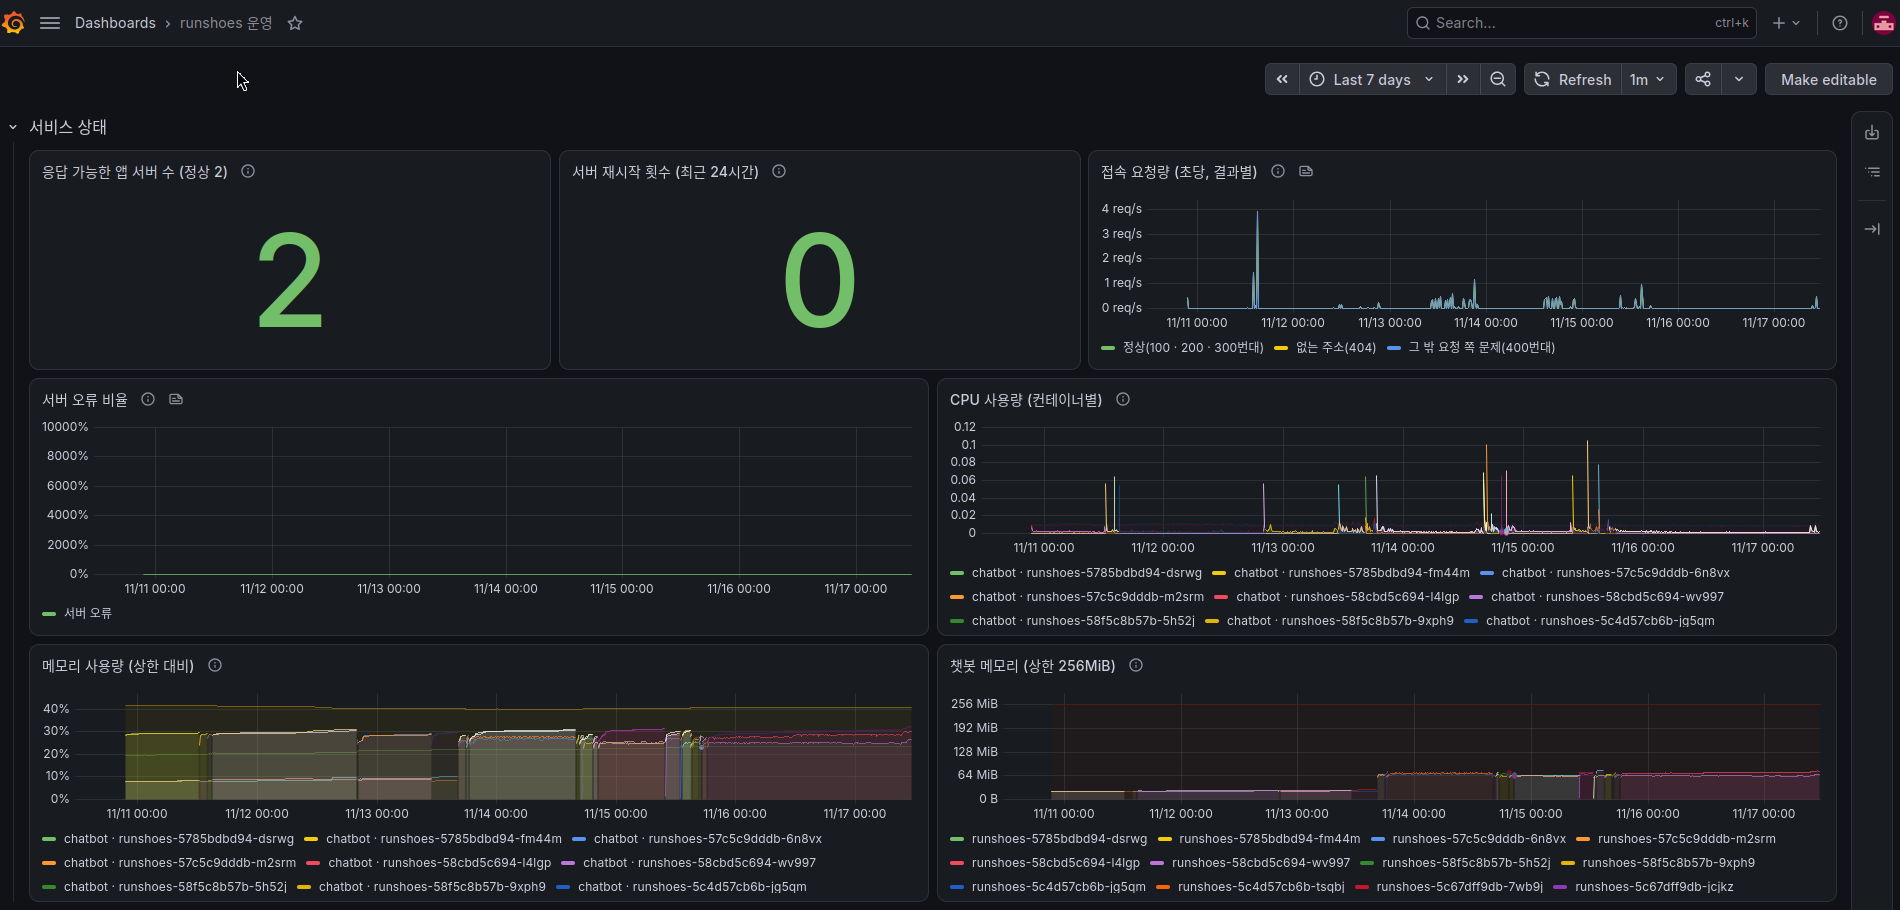
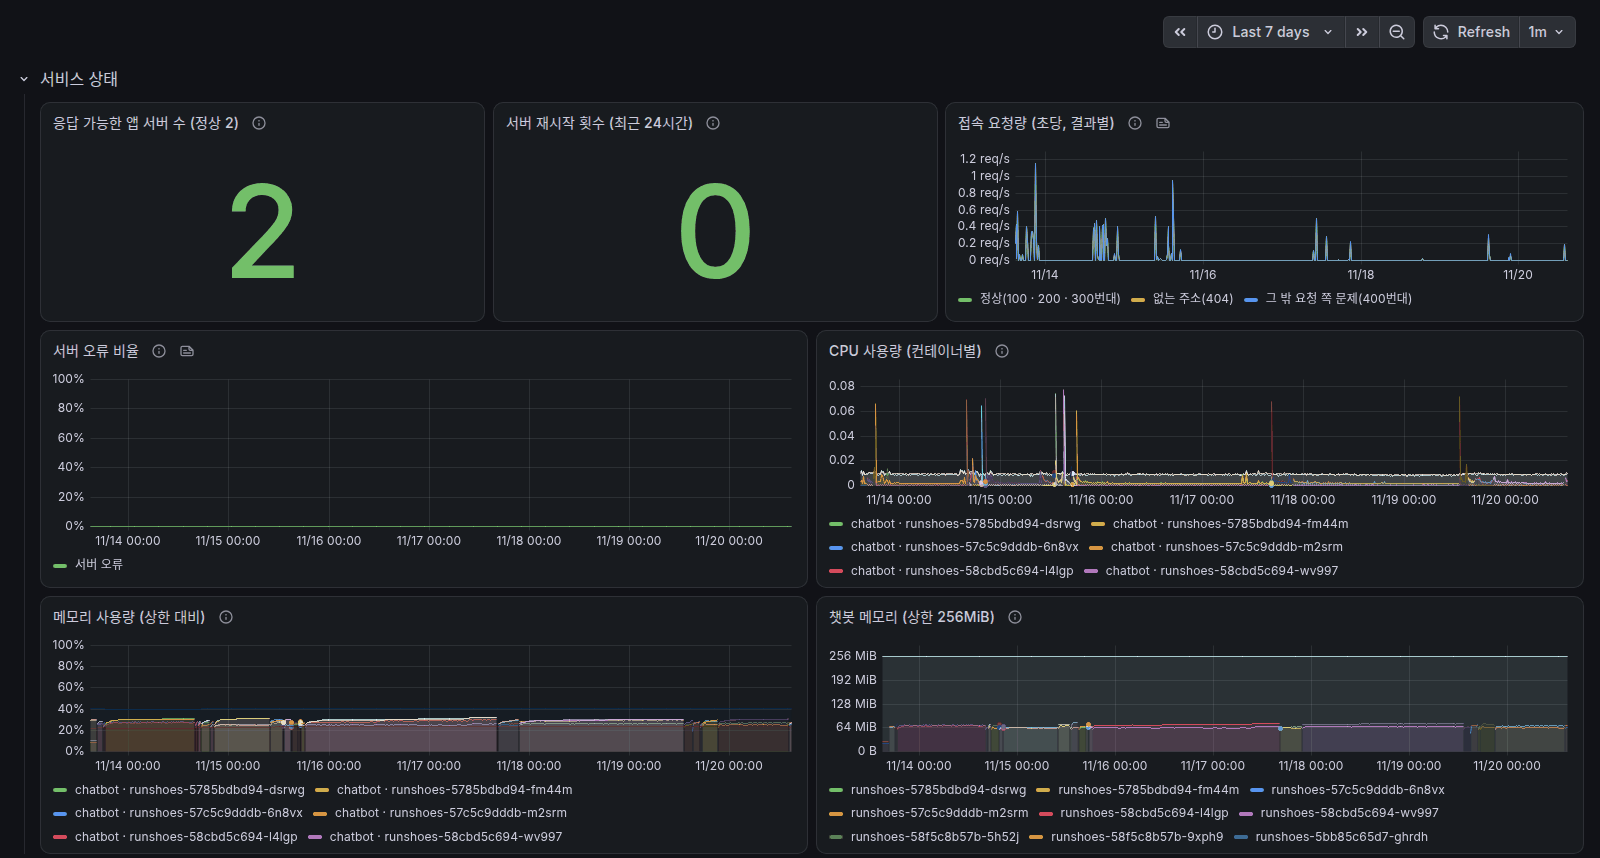
docs: 운영 도구 화면 사진을 원고와 포트폴리오에 넣음
직접 세운 클러스터를 보여 줄 사진이 다섯 장뿐이어서 ArgoCD,
Jenkins, Harbor, Grafana 화면과 노드, 배치, 인증서 그림을 더했다.
화면은 사설망에서 헤드리스 브라우저로 찍었고 주소창이 나오지 않는다.
커밋 작성자 메일, 접속 주소가 든 로그 칸처럼 보이면 안 되는 칸은
흐리지 않고 화면 밖으로 잘라 냈다. 가린 자국도 보여 준 것이라는
사용자 말을 따랐다. 노드, 배치, 인증서는 명령 출력을 옮겨 그린
그림이라 설명에 밝혔다. 옛 ArgoCD 사진은 새 두 장으로 바꾸고
지웠고, 200KB를 넘던 옛 사진 둘은 줄이거나 다시 찍었다.

diff --git a/portfolio/04_tunnel.md b/portfolio/04_tunnel.md
@@ -36,7 +36,10 @@ cloudflared를 파드로 띄운 까닭은 운영을 쿠버네티스에 맡기기
 
 터널이 ingress-nginx 하나만 가리키게 한 까닭은 앱이 늘 때마다 터널을 고치지 않으려는 것입니다. 새 앱은 Ingress 규칙만 더하면 됩니다. 다만 이 터널은 설정 파일 방식이라 공개 주소를 더할 때는 설정에 주소 한 줄과 Cloudflare 쪽 DNS 기록도 같이 더합니다 [docs:history/build_log/03_cloudflare_tunnel.md:143-153].
 
-터널이 깨지면 바깥 길 전체가 끊기므로, cloudflared는 저장소 변경이 자동으로 반영되지 않는 유일한 앱입니다. 다른 앱은 커밋이 곧 배포로 이어지지만, 이 앱은 사람이 반영을 누르고 교체 과정을 지켜봅니다. 잘못된 커밋 하나가 사람 손을 거치지 않고 바깥 길 전체를 끊게 두지 않으려는 것입니다 [code:apps/cloudflared/app.yaml:4-8] [docs:history/cluster_state_20261116.md:56-61]. 터널이 끊겼을 때를 위한 길도 남겨 두었습니다. 서버 호스트에서는 터널을 거치지 않고 ingress-nginx의 사설망 고정 주소(VIP)로 운영 도구 화면을 열 수 있고, 관리 노드에 들어가 명령으로 되돌릴 수 있습니다 [code:apps/cloudflared/README.md:24-25].
+터널이 깨지면 바깥 길 전체가 끊기므로, cloudflared는 저장소 변경이 자동으로 반영되지 않는 유일한 앱입니다. 다른 앱은 커밋이 곧 배포로 이어지지만, 이 앱은 사람이 반영을 누르고 교체 과정을 지켜봅니다. 잘못된 커밋 하나가 사람 손을 거치지 않고 바깥 길 전체를 끊게 두지 않으려는 것입니다 [code:apps/cloudflared/app.yaml:4-8] [docs:history/cluster_state_20261116.md:56-61].
+
+![ArgoCD의 cloudflared 앱 나무. 앱 아래 설정 파일과 Deployment가 있고, Deployment 아래 지금 쓰는 판의 파드 두 벌이 떠 있습니다. 옛 판 둘은 파드 없이 남아 있습니다](img/04_argocd_cloudflared.png)
+ 터널이 끊겼을 때를 위한 길도 남겨 두었습니다. 서버 호스트에서는 터널을 거치지 않고 ingress-nginx의 사설망 고정 주소(VIP)로 운영 도구 화면을 열 수 있고, 관리 노드에 들어가 명령으로 되돌릴 수 있습니다 [code:apps/cloudflared/README.md:24-25].
 
 ## 치른 값
 

diff --git a/notion/12_monitoring/03_dashboards.md b/notion/12_monitoring/03_dashboards.md
@@ -41,6 +41,10 @@ DB 계정의 비밀번호는 저장소에 없다. 사람이 쿠버네티스 Secr
 
 대시보드를 보는 사람은 개발자가 아닐 수 있다. 그래서 칸 제목은 무엇을 세는지 바로 알 수 있는 말로 쓰고, 마우스를 올리면 나오는 설명에 무엇이 섞였는지, 높거나 낮으면 무슨 뜻인지, 언제부터 있는 값인지를 쉬운 말로 적는다. DB 칸 이름이나 도구 이름은 설명 끝의 「출처」 한 줄에만 둔다. [code:apps/monitoring/grafana/dashboards/gen_petmint.py:62-63] [code:apps/monitoring/grafana/dashboards/gen_runshoes.py:10-11] Grafana는 추세를 보는 곳이고, 한 건 한 건을 들여다보고 손대는 일은 각 서비스의 관리자 화면이 맡는다. [code:apps/monitoring/grafana/dashboards/gen_runshoes.py:7-8]
 
+![「petmint 운영」 대시보드를 기본 범위 최근 30일로 본 화면이다. 위에서부터 서비스 상태와 접속량, 질문량, 답변 품질과 속도, AI 서버(GPU) 묶음이 있다. 그 아래 서버 기록 칸이 있는 줄은 접속 주소가 나와 넣지 않았다.](../../portfolio/img/08_grafana_petmint.png)
+
+![「runshoes 운영」 대시보드를 최근 30일로 본 화면이다. 위에서부터 서비스 상태, API, 챗봇 묶음이 있다. 그 아래 AI 서버(GPU), 사이트 활동, 리뷰 요약 배치, 서버 기록 묶음은 넣지 않았다. AI 서버 묶음에는 GPU를 나눠 쓰는 펫퍼민트의 모델 이름이 나온다.](../../portfolio/img/08_grafana_runshoes.png)
+
 ## 들어가는 문
 
 Grafana는 바깥 주소로 열려 있고, 자체 로그인과 Cloudflare Access 두 겹으로 막는다. [code:apps/monitoring/ingress.yaml:7] 로그인하지 않은 사람에게는 아무것도 보여 주지 않으며 [code:apps/monitoring/grafana/deployment.yaml:41-42], 업데이트 확인이나 사용 통계처럼 바깥으로 나가는 호출은 껐다. [code:apps/monitoring/grafana/deployment.yaml:43-49] 관리자 계정은 사람이 Secret으로 만들어 넣는다. [code:apps/monitoring/grafana/deployment.yaml:28-31]

diff --git a/portfolio/01_kubeadm.md b/portfolio/01_kubeadm.md
@@ -28,6 +28,10 @@ w4-k8s  워커            platform  (모니터링)
 
 노드 이름과 역할 라벨은 실제 클러스터에서 확인한 값입니다 [docs:history/cluster_state_20261116.md:9-15]. 역할 라벨(노드에 붙여 두는 꼬리표)에 따라 무엇이 어디에 뜨는지가 정해집니다 [code:cluster/label-nodes.sh:6-8].
 
+![노드 목록. 화면을 찍은 것이 아니라 노드 목록 명령의 출력을 옮겨 그린 그림입니다. 다섯 대 모두 Ready이고 판이 같으며, 맨 오른쪽 칸이 역할 라벨입니다. 노드 주소가 나오는 칸은 넣지 않았습니다](img/01_nodes.png)
+
+![노드마다 떠 있는 것. 화면을 찍은 것이 아니라 파드 목록 명령의 출력을 노드별로 옮겨 그린 그림입니다. w1과 w2에 두 서비스의 앱과 데이터베이스, w3에 ArgoCD, Harbor, Jenkins, w4에 모니터링이 있습니다. 모든 노드에 하나씩 도는 것은 아래 한 줄로 모았고, 파드 주소는 넣지 않았습니다](img/01_placement.png)
+
 ## 까닭
 
 까닭은 셋으로 기록되어 있습니다. 첫째, 실제 운영 클러스터는 control-plane과 워커가 나뉘어 있고, 일꾼 노드 하나가 죽어도 다른 노드가 파드를 대신 받도록 짜여 있습니다. 둘째, control-plane 하나와 워커 여러 대로 된 클러스터를 kubeadm으로 직접 세우는 일이 쿠버네티스 관리자 자격 시험(CKA)의 범위 자체입니다 [docs:history/build_log/01_cluster.md:136-137] [docs:history/build_log/kubernetes_install.md:124]. 셋째, 워커가 한 대뿐이면 분산을 보여 줄 수 없습니다. 파드가 여러 노드에 흩어지고, 한 노드가 멈췄을 때 다른 노드가 받는 모습은 워커가 적어도 두세 대는 있어야 실제로 일어납니다 [docs:history/build_log/01_cluster.md:138].

diff --git a/notion/07_registry.md b/notion/07_registry.md
@@ -14,6 +14,10 @@
 
 Harbor는 구성 요소가 일곱이고 그중 다섯이 저장 공간을 쓴다. 이것을 매니페스트로 하나하나 쓰면 설정 파일이 수십 개가 되고 그 안에 주소와 비밀번호가 흩어진다. Helm(여러 매니페스트를 묶은 차트에 값만 넣어 설치하게 해 주는 도구)을 쓰면 바꿀 값을 `platform/harbor/values.yaml` 한 곳에 모을 수 있다. [docs:history/build_log/05_harbor.md:180] Harbor는 ArgoCD 밖에 있어서, 이 파일을 고쳐 `main`에 올려도 클러스터는 바뀌지 않고 사람이 Helm으로 다시 넣는다. [code:bootstrap/root-app.yaml:13] 이렇게 저장소 밖에서 넣은 것은 판을 `platform/versions.yaml`에 따로 적어 둔다. [code:platform/versions.yaml:1-6] 빌드 서버가 이미지를 올리고 태그를 고정하는 과정은 → 「빌드와 태그 고정」에서 다룬다.
 
+![Harbor 프로젝트 목록이다. 비공개 프로젝트 petmint와 runshoes, 기본으로 있는 공개 프로젝트 library가 보이고, 오른쪽 위에 쓰고 있는 저장 용량이 있다.](../portfolio/img/07_harbor_projects.png)
+
+![Harbor의 petmint-app 이미지 목록이다. 태그가 앱 커밋 해시로 붙어 있고, 이미지마다 크기와 취약점 검사 결과, 올린 시각과 노드가 받아 간 시각이 보인다.](../portfolio/img/07_harbor_petmint_tags.png)
+
 ## 노드가 이미지를 받아 가는 길
 
 Harbor는 바깥에서 터널을 거쳐 들어오는 공개 주소를 하나 갖고 있지만, 노드는 그 길로 이미지를 받지 않는다. 공개 주소 앞에는 사람만 통과시키는 접근 제한이 걸려 있어 노드가 막히기 때문이다. [code:apps/cloudflared/configmap.yaml:35] [docs:history/build_log/05_harbor.md:208]

diff --git a/notion/02_nodes/03_roles.md b/notion/02_nodes/03_roles.md
@@ -12,6 +12,10 @@
 
 들어오는 문, 바깥 터널, 클러스터 이름 풀이, 인증서 관리 같은 공용 구성 요소는 이름표 조건이 없어 아무 워커에나 뜬다. [docs:history/build_log/08_scale_out.md:33]
 
+![노드 목록이다. 화면을 찍은 것이 아니라 노드 목록 명령의 출력을 옮겨 그린 그림이다. 다섯 대 모두 Ready이고 판이 같으며, 맨 오른쪽 칸이 역할 이름표다. 노드 주소가 나오는 칸은 넣지 않았다.](../../portfolio/img/01_nodes.png)
+
+![노드마다 떠 있는 것이다. 화면을 찍은 것이 아니라 파드 목록 명령의 출력을 노드별로 옮겨 그린 그림이다. w1과 w2에 두 서비스의 앱과 데이터베이스, w3에 ArgoCD와 Harbor와 Jenkins, w4에 모니터링이 있다. 들어오는 문과 인증서 관리처럼 이름표 조건이 없는 것은 여러 워커에 흩어져 있다. 모든 노드에 하나씩 도는 것은 아래 한 줄로 모았고, 파드 주소는 넣지 않았다.](../../portfolio/img/01_placement.png)
+
 ## 왜 역할을 나눴나
 
 처음에는 노드에 역할이 없었다. 그러자 노드 디스크에 붙는 저장 공간이 처음 뜬 노드에 제각각 생겼고, 이미지 저장소 하나만 해도 조각이 세 노드에 흩어졌다. 그 결과 어느 워커를 내려도 이미지 저장소의 일부가 멈췄다. 그때 노드는 control-plane 하나와 워커 셋(w1 ~ w3)을 합해 넷이었는데, 노드 하나가 죽으면 무엇이 멈추는지 말할 수 없는 상태였다. [docs:history/build_log/08_scale_out.md:117-125] 지금은 w4가 붙어 control-plane 하나와 워커 넷, 모두 다섯 대다. [docs:history/cluster_state_20261116.md:9-15]

diff --git a/portfolio/07_delivery.md b/portfolio/07_delivery.md
@@ -20,7 +20,7 @@
 
 ArgoCD 쪽은 App of Apps로 짰습니다. ArgoCD에서 「어느 폴더를 어디에 넣을지」를 적은 단위를 Application이라고 하는데, 사람이 손으로 넣는 것은 루트 Application 하나뿐입니다. 루트는 `apps` 아래 앱 폴더마다 있는 `app.yaml`을 읽어 앱 Application을 만들어 줍니다. 새 앱을 올릴 때는 폴더 하나를 더해 push하면 됩니다. [code:bootstrap/root-app.yaml:1-4]
 
-![ArgoCD 화면. 앱 다섯이 모두 Synced 상태입니다. 작성자 메일 주소는 앞 몇 글자만 남기고 가렸습니다](img/00_argocd_apps.png)
+![ArgoCD 앱 목록. 루트 앱과 그 아래 앱 다섯, 여섯 모두 Healthy와 Synced 상태이고 모두 저장소의 main을 봅니다](img/07_argocd_apps.png)
 
 앱 Application은 다섯이고, 그중 runshoes, petmint, monitoring, harbor-backup 넷이 자동 Sync입니다. cloudflared 하나만 사람이 Sync를 누릅니다. [docs:history/cluster_state_20261116.md:54-61] cloudflared는 바깥에서 클러스터로 들어오는 터널이라, 잘못된 커밋 하나로 터널이 깨지면 서비스만 멈추는 것이 아니라 고칠 때 쓰는 ArgoCD 화면과 상황을 볼 Grafana까지 함께 보이지 않게 됩니다. 그래서 커밋이 곧바로 반영되지 않게 하고, 사람이 Sync한 뒤 새 파드로 갈아타는 과정을 지켜봅니다. [code:apps/cloudflared/app.yaml:4-8] 터널은 → 「포트포워딩 없이 공개하기」에서 다룹니다.
 

diff --git a/notion/09_deploy/01_manifests.md b/notion/09_deploy/01_manifests.md
@@ -42,6 +42,8 @@ PDB(PodDisruptionBudget, 노드 정비로 파드를 내보낼 때 최소 몇 개
 
 런슈즈는 리뷰 요약을 만드는 CronJob이 매일 새벽 한 번 돈다. 웹 파드와 같은 이미지에 배치 프로필만 붙여 돌리고, 태그도 같은 `newTag` 한 줄을 함께 받는다. [code:apps/runshoes/app/cronjob.yaml:1-3] [code:apps/runshoes/app/cronjob.yaml:14-15] 배치 프로필에서는 스키마 변경 도구를 끄고 스키마가 맞는지만 확인한다. 스키마는 웹 파드의 Sync만 바꾸고, 맞지 않으면 배치가 곧바로 실패한다. [code:apps/runshoes/app/cronjob.yaml:3] 회차가 겹치면 뒤에 온 쪽이 데이터베이스 잠금에서 곧바로 끝나고, 실패해도 바로 다시 돌지 않는다. 다시 만들 대상은 앱이 남긴 표시가 정한다. [code:apps/runshoes/app/cronjob.yaml:4-5] [code:apps/runshoes/app/cronjob.yaml:16] [code:apps/runshoes/app/cronjob.yaml:26-27]
 
+![ArgoCD의 petmint 앱 화면이다. 앱 하나 아래 설정 파일, 저장 공간, 서비스, Deployment, StatefulSet, 백업 CronJob, 초기화 Job이 나무로 펼쳐져 있고 모두 Healthy다.](../../portfolio/img/09_argocd_petmint_tree.png)
+
 ## 알려진 한계
 
 - 롤링하는 동안 잠깐 앱 파드가 하나다. 그 사이 남은 파드가 죽으면 끊긴다. [code:apps/petmint/app/deployment.yaml:6]

diff --git a/portfolio/05_tls.md b/portfolio/05_tls.md
@@ -18,6 +18,8 @@ TLS는 브라우저와 서버 사이의 내용을 암호화하고, 상대가 그
 
 운영 도구 다섯(ArgoCD, Harbor, Jenkins, Grafana, Prometheus)은 ingress-nginx에서 TLS를 끝냅니다. 인증서는 cert-manager(클러스터 안에서 인증서를 받아 오는 프로그램)가 공인 인증 기관 Let's Encrypt에서 받아 오고, 다섯 개 모두 발급을 마친 상태입니다 [docs:history/cluster_state_20261116.md:38-48].
 
+![인증서 발급 상태. 화면을 찍은 것이 아니라 명령 두 개의 출력을 옮겨 그린 그림입니다. 위는 Let's Encrypt 발급자 둘(시험용, 운영용), 아래는 운영 도구 다섯의 인증서가 모두 READY True인 모습입니다. 인증서를 넣어 둔 Secret은 이름만 보이고 내용은 넣지 않았습니다](img/05_certificates.png)
+
 Let's Encrypt가 이름의 주인인지 시험하는 방식은 DNS-01(그 이름의 DNS에 정해진 기록을 올려 증명하는 방식)을 씁니다. 바깥에서 서버의 파일을 열어 보게 하는 방식은 쓸 수 없습니다. 들어오는 포트를 열지 않았고 운영 도구는 로그인 관문 뒤에 있기 때문입니다 [code:platform/cert-manager/values.yaml:1].
 
 ## 까닭

diff --git a/notion/11_gpu.md b/notion/11_gpu.md
@@ -44,6 +44,8 @@ GPU는 NVIDIA GeForce RTX 5070 Ti 한 장이고 메모리는 16GB다. [docs:hist
 
 이 모습은 모니터링에서 그대로 보인다. 호스트의 GPU 수집기는 GPU 사용률, 메모리, 온도, 전력을 내보내고 [code:scripts/host-gpu-exporter.sh:4], 추론 서버에 지금 어떤 모델이 올라가 있는지는 클러스터 안의 변환기가 추론 서버에 물어 지표로 바꾼다. [code:apps/monitoring/json-exporter/json-exporter.yaml:1-3] 자세한 것은 → 「지표」와 → 「대시보드」에 있다.
 
+![Grafana의 GPU 묶음이다. 왼쪽부터 GPU 사용률, GPU 메모리, 최근 24시간 동안 메모리에 올라간 모델이 보인다.](../portfolio/img/06_grafana_gpu.png)
+
 GPU 수집기는 sudo 없이 Docker 그룹 권한으로 사람이 한 번 띄운다. 가상 머신 사설망 주소에만 포트를 열고 바깥이나 공유기 쪽으로는 열지 않으며, 추론 서버와 벡터 DB 컨테이너는 건드리지 않는다. [code:scripts/host-gpu-exporter.sh:2-5] 재시작 정책이 붙어 있어 사람이 멈추지 않는 한 Docker가 다시 띄운다. [code:scripts/host-gpu-exporter.sh:11]
 
 ## 알려진 한계
